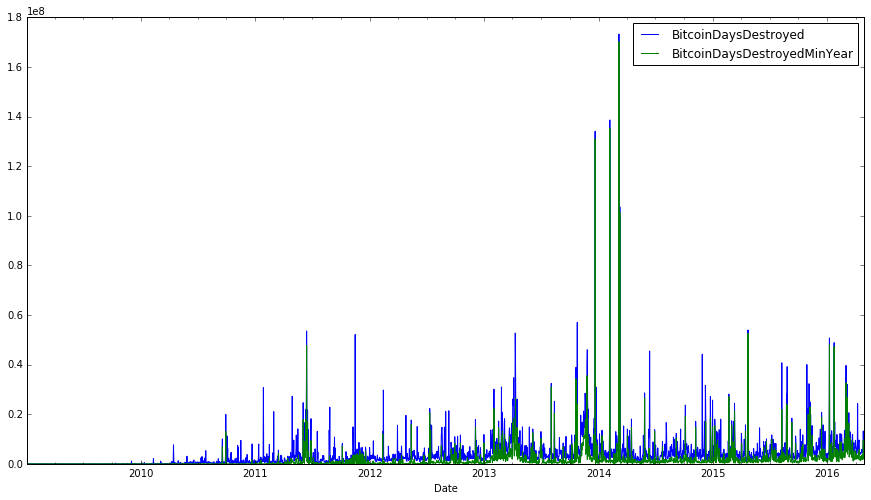
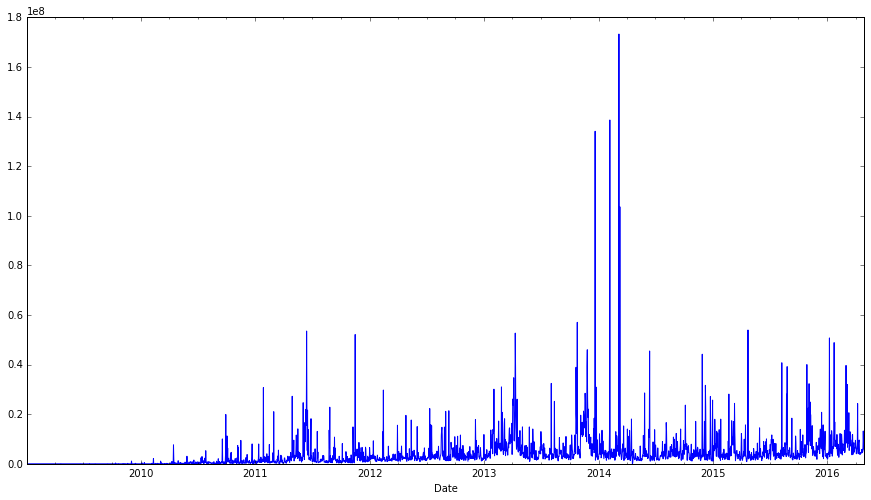
Adapt variable description to PCA
The variables selected for PCA have been changed. This is a start to
change all the variables needed to be changed.

1 - Remove Average Block Size, Bitcoin Days Destroyed Min Year,
Estimated Transaction Volume USD.
2 - Add Difficulty, Number of Transactions.

Changed region(s): [[0.248, 0.24, 0.992, 0.93], [0.775, 0.06, 0.992, 0.12]]

diff --git a/Chapters/Variables.tex b/Chapters/Variables.tex
@@ -39,72 +39,71 @@ more history than Bitcoin. After analyzing the date span of each
 variable, we conclude that the interesction of all the sets is in the
 range between 2009-01-03 and 2016-04-28.
 
-\subsection{Average Block Size}
-\label{sec:avg-block-size}
+% \subsection{Average Block Size}
+% \label{sec:avg-block-size}
 
-A concise definition of a block can be found
-\href{https://en.bitcoin.it/wiki/Block}{here}: \textit{``Each block
-  contains, among other things, a record of some or all recent
-  transactions, and a reference to the block that came immediately
-  before it. It also contains an answer to a difficult-to-solve
-  mathematical puzzle - the answer to which is unique to each
-  block.''}
+% A concise definition of a block can be found
+% \href{https://en.bitcoin.it/wiki/Block}{here}: \textit{``Each block
+%   contains, among other things, a record of some or all recent
+%   transactions, and a reference to the block that came immediately
+%   before it. It also contains an answer to a difficult-to-solve
+%   mathematical puzzle - the answer to which is unique to each
+%   block.''}
 
-It's clear that, over time, the size of the block is going to
-increase, because there are more and more transactions in the Bitcoin
-distributed network. In consequence
-\autoref{fig:avg-block-size-over-time} shows a non-stoppable
-increasing.
+% It's clear that, over time, the size of the block is going to
+% increase, because there are more and more transactions in the Bitcoin
+% distributed network. In consequence
+% \autoref{fig:avg-block-size-over-time} shows a non-stoppable
+% increasing.
 
-\begin{figure}[bth]
-  \myfloatalign
-  {\includegraphics[width=1\linewidth]
-    {gfx/avg-block-size-over-time}} 
-  \caption{\textit{Average block size} chart}
-  \label{fig:avg-block-size-over-time}
-\end{figure}
+% \begin{figure}[bth]
+%   \myfloatalign
+%   {\includegraphics[width=1\linewidth]
+%     {gfx/avg-block-size-over-time}} 
+%   \caption{\textit{Average block size} chart}
+%   \label{fig:avg-block-size-over-time}
+% \end{figure}
 
-This variable, called \textit{Average Block Size} represent the
-average size of the blocks in one day measured in MB. One real number
-data point each day, at 18:15:05, spanning from 03/01/2009 to
-28/04/2016. It was obtained from the section \textbf{Charts} of
-\href{blockchain.info}{blockchain.info}
+% This variable, called \textit{Average Block Size} represent the
+% average size of the blocks in one day measured in MB. One real number
+% data point each day, at 18:15:05, spanning from 03/01/2009 to
+% 28/04/2016. It was obtained from the section \textbf{Charts} of
+% \href{blockchain.info}{blockchain.info}
 
 
-In \autoref{fig:avg-block-size-over-time} can be seen how the average
-block size has been increasing since the creation of Bitcoin. In 2015
-the average block started to dangerously approach the limit of 1 MB,
-which is causing a big debate in the Bitcoin community about whether
-they should increase this limit or not. Although the average size of
-the blocks is increasing, the majority of blocks is near zero, as
-refleceted by the median in \autoref{tab:stats-avg-block-size}.
+% In \autoref{fig:avg-block-size-over-time} can be seen how the average
+% block size has been increasing since the creation of Bitcoin. In 2015
+% the average block started to dangerously approach the limit of 1 MB,
+% which is causing a big debate in the Bitcoin community about whether
+% they should increase this limit or not. Although the average size of
+% the blocks is increasing, the majority of blocks is near zero, as
+% refleceted by the median in \autoref{tab:stats-avg-block-size}.
 
-\begin{table}[bth]
-  \myfloatalign
-  \tiny
-  \begin{tabularx}{\textwidth}{XX} 
-    \toprule
-    \tableheadline{Measure} & \tableheadline{Value} \\
-    \midrule
-    count  & $2673$     \\
-    mean   & $0.163963$ \\
-    std    & $0.208009$ \\
-    min    & $0$        \\
-    $25\%$ & $0.000893$ \\
-    $50\%$ & $0.092265$ \\
-    $75\%$ & $0.241909$ \\
-    max    & $0.918519$ \\
-    \bottomrule
-  \end{tabularx}
-  \caption{Statistical values for 
-    \textit{Average block size}}
-  \label{tab:stats-avg-block-size}
-\end{table}
+% \begin{table}[bth]
+%   \myfloatalign
+%   \tiny
+%   \begin{tabularx}{\textwidth}{XX} 
+%     \toprule
+%     \tableheadline{Measure} & \tableheadline{Value} \\
+%     \midrule
+%     count  & $2673$     \\
+%     mean   & $0.163963$ \\
+%     std    & $0.208009$ \\
+%     min    & $0$        \\
+%     $25\%$ & $0.000893$ \\
+%     $50\%$ & $0.092265$ \\
+%     $75\%$ & $0.241909$ \\
+%     max    & $0.918519$ \\
+%     \bottomrule
+%   \end{tabularx}
+%   \caption{Statistical values for 
+%     \textit{Average block size}}
+%   \label{tab:stats-avg-block-size}
+% \end{table}
 
-%----------------------------------------------------------------------
+% %----------------------------------------------------------------------
 
-\subsection{Bitcoin Days Destroyed
-  \& Bitcoin Days Destroyed Min Year}
+\subsection{Bitcoin Days Destroyed}
 \label{sec:bitcoin-days-destroyed}
 
 \textit{Bitcoin Days Destroyed} is a weighted measure of aggregate
@@ -120,8 +119,7 @@ data point each day, at 18:15:05, spanning from 03/01/2009 to
 28/04/2016.
 
 In \autoref{fig:bitcoin-days-destroyed-over-time} we show data over
-time for \textit{Bitcoin Days Destroyed} and \textit{Bitcoin Days
-  Destroyed Min Year}.
+time for \textit{Bitcoin Days Destroyed}.
 
 \begin{figure}[bth]
   \myfloatalign
@@ -131,8 +129,7 @@ time for \textit{Bitcoin Days Destroyed} and \textit{Bitcoin Days
   \label{fig:bitcoin-days-destroyed-over-time}
 \end{figure}
 
-To better understand this set of variable we include a quote extracted
-from
+To better understand this variable we include a quote extracted from
 \href{http://bitcoin.stackexchange.com/questions/845/what-are-bitcoin-days-destroyed}{Bitcoin
   Beta | Stack Exchange}:
 
@@ -302,31 +299,58 @@ current value of Bitcoin.
 
 %----------------------------------------------------------------------
 
-\subsection{Estimated Transaction Volume USD}
-\label{sec:estimated-transaction-volume-usd}
+% \subsection{Estimated Transaction Volume USD}
+% \label{sec:estimated-transaction-volume-usd}
 
 
-The Estimated Transaction Volume in USD value, shown in
-\autoref{fig:estimated-transaction-volume-usd-over-time}, can be
-explained by the average value of Bitcoin, shown in
-\autoref{fig:market-price-over-time}, because nearly all the events
-are paired in the two figures. There is a small increase in estimated
-transaction volume in USD in mid 2011 at the same time than the
-average price of Bitcoin increases. Later on, in 2013 there is a
-bigger increase in estimated volume that is also reflected in the
-average price. Then we have the two biggest peaks around January of
-2014 coinciding with the highest average value of Bitcoin (also
-represented in two peaks). After that there is decrease in average
-price and estimated volume till 2016 where Bitcoin average price
-starts to increase at the same time that the estimate transaction
-volume increases.
+% The Estimated Transaction Volume in USD value, shown in
+% \autoref{fig:estimated-transaction-volume-usd-over-time}, can be
+% explained by the average value of Bitcoin, shown in
+% \autoref{fig:market-price-over-time}, because nearly all the events
+% are paired in the two figures. There is a small increase in estimated
+% transaction volume in USD in mid 2011 at the same time than the
+% average price of Bitcoin increases. Later on, in 2013 there is a
+% bigger increase in estimated volume that is also reflected in the
+% average price. Then we have the two biggest peaks around January of
+% 2014 coinciding with the highest average value of Bitcoin (also
+% represented in two peaks). After that there is decrease in average
+% price and estimated volume till 2016 where Bitcoin average price
+% starts to increase at the same time that the estimate transaction
+% volume increases.
+
+% \begin{figure}[bth]
+%   \myfloatalign
+%   {\includegraphics[width=1\linewidth]
+%     {gfx/estimated-transaction-volume-usd-over-time}}
+%   \caption{\textit{Estimated transaction volume USD} chart}
+%   \label{fig:estimated-transaction-volume-usd-over-time}
+% \end{figure}
+
+% %----------------------------------------------------------------------
+
+\subsection{Difficulty}
+\label{sec:difficulty}
+
+
+This variable depicts a relative measure of how difficult it is to
+find a new block. The \textit{Difficulty} is adjusted periodically as
+a function of how much hashing power has been deployed by the network
+of miners. \autoref{fig:difficulty-over-time} displays the difficulty
+values over time. It can be noticed the staggered nature of the
+values, that is because the \textit{Difficulty} is adjusted
+automatically every 2016 blocks, and changes equally for the entire
+Bitcoin network. Until 2014, the difficulty of mining was very low, it
+started to raise probably because the trade volume in the end of 2013
+and start of 2014 was approximately 70.000.000\$, which attracted
+professional miners with a greater processing power, those creating
+more and more blocks and augmenting the difficulty of mining.
 
 \begin{figure}[bth]
   \myfloatalign
   {\includegraphics[width=1\linewidth]
-    {gfx/estimated-transaction-volume-usd-over-time}}
-  \caption{\textit{Estimated transaction volume USD} chart}
-  \label{fig:estimated-transaction-volume-usd-over-time}
+    {gfx/difficulty-over-time}}
+  \caption{\textit{Difficulty} chart}
+  \label{fig:difficulty-over-time}
 \end{figure}
 
 %----------------------------------------------------------------------
@@ -459,7 +483,30 @@ is a peak in mid 2012, that can coincide with the increase in
   \label{fig:median-confirmation-time-over-time}
 \end{figure}
 
-%----------------------------------------------------------------------
+% ----------------------------------------------------------------------
+
+\subsection{Number of Transactions}
+\label{sec:n-transactions-multiple}
+
+Here we analyze \textit{Number of transactions}, which is defined as
+``\textit{The number of daily confirmed Bitcoin transactions}''. The
+\textit{Number of transactions} represented in
+\autoref{fig:n-transactions-over-time} show a moderated
+growth compared to that of the market price. That may be because this
+variable doesn't depend on the inflation of the Bitcoin, and there
+aren't exagerated fluctuation. We see that even the price of the
+Bitcoin is not at its peak in 2016, the \textit{Number of
+  transactions} are at its higher point so far in the Bitcoin history.
+
+\begin{figure}[bth]
+  \myfloatalign
+  {\includegraphics[width=1\linewidth]
+    {gfx/n-transactions-over-time}}
+  \caption{\textit{Number of transactions} chart}
+  \label{fig:n-transactions-over-time}
+\end{figure}
+
+% ----------------------------------------------------------------------
 
 \subsection{Output Volume}
 \label{sec:output-volume}
